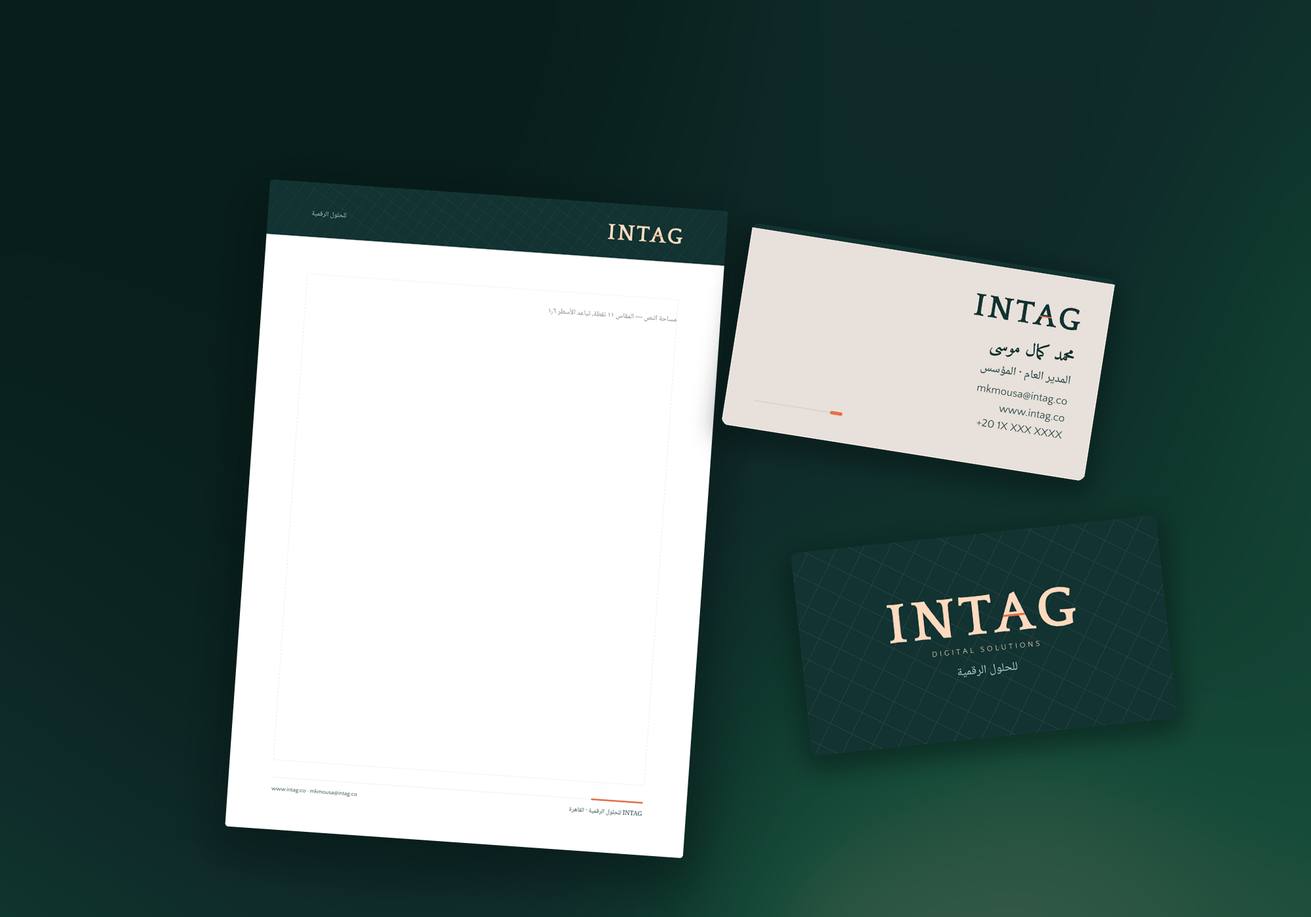
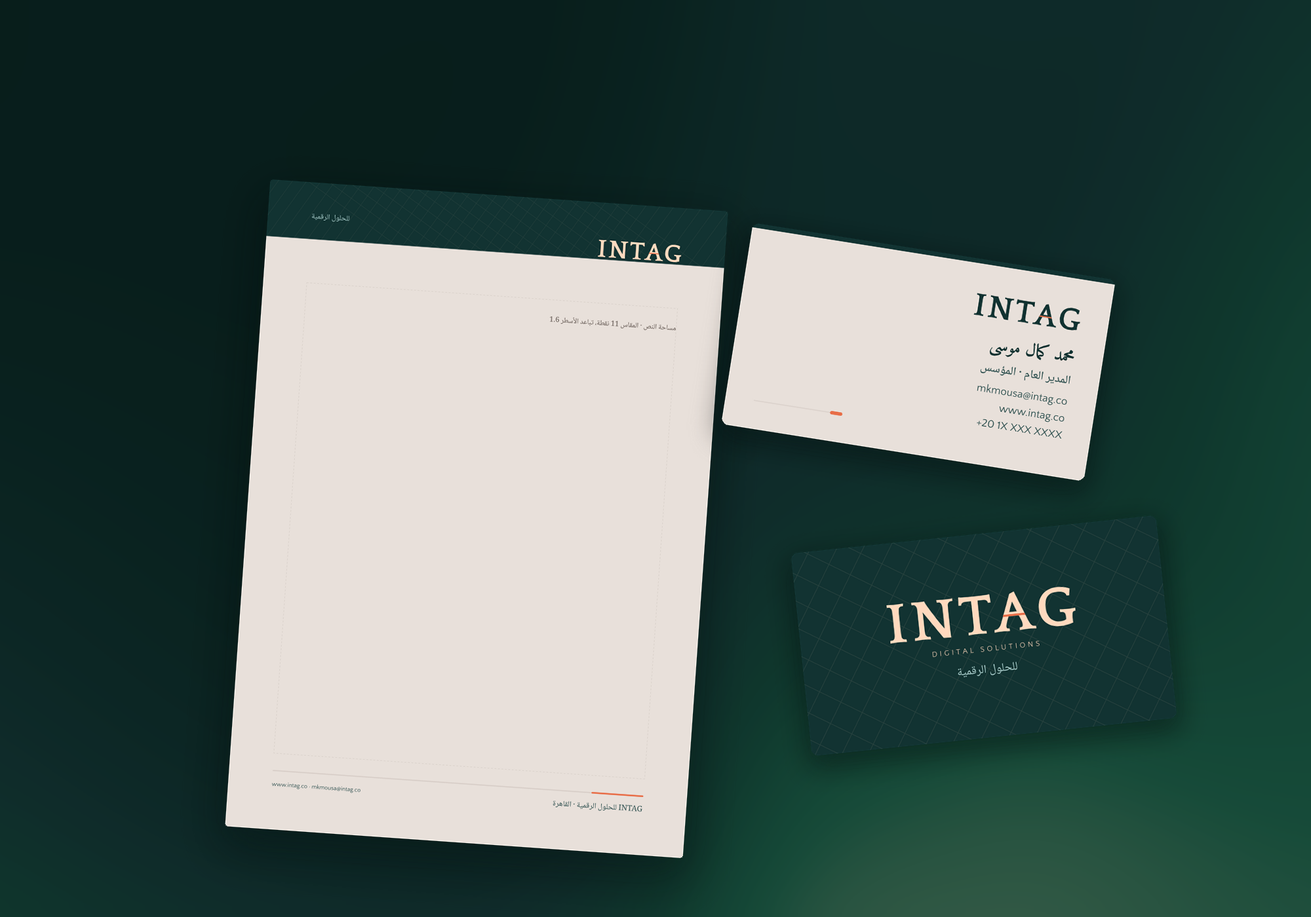
Darker paper, and the two A4 documents become a set
The light surface moves from near-white to sand.100 (#E8E0DA). That costs about
1.2 stops of contrast, so the inks that sit on the paper step down one: the
accent and the warning would otherwise fall under 4.5:1. Page, raised and sunken
re-layer as sand.100 / sand.50 / sand.200.

The letterhead and the proposal cover now share one A4 spec - margin, logo size,
logo baseline and footer band - so they line up when laid together. The cover
also draws its project title, which it had been building and discarding.

Changed region(s): [[0.155, 0.2457, 0.558, 0.9521]]

diff --git a/brandbook/index.html b/brandbook/index.html
@@ -211,7 +211,7 @@
 
   <h3 style="margin-top:52px">نسبة التغطية 60 · 30 · 10</h3>
   <div class="grid g3">
-    <div class="card"><div class="pt"></div><h4>60% · الأرضية</h4><p><span class="lat">forest.900</span> في الوضع الداكن، <span class="lat">sand.50</span> في الفاتح. السطح، لا لون العلامة.</p></div>
+    <div class="card"><div class="pt"></div><h4>60% · الأرضية</h4><p><span class="lat">forest.900</span> في الوضع الداكن، <span class="lat">sand.100</span> في الفاتح. السطح، لا لون العلامة.</p></div>
     <div class="card"><div class="pt"></div><h4>30% · البنية</h4><p>البطاقات والحدود والنص الثانوي: <span class="lat">forest.850/750</span> أو <span class="lat">sand.100/200</span>.</p></div>
     <div class="card"><div class="pt"></div><h4>10% · اللهجة</h4><p>المشمشي للعناوين، والفخّار للفعل الواحد. رأيت الفخّار مرتين في شاشة واحدة، فالنسبة خاطئة.</p></div>
   </div>
@@ -219,13 +219,13 @@
   <h3 style="margin-top:52px">التباين</h3>
   <p>كل زوج محسوب بمعيارين: نسبة <span class="lat">WCAG 2.1</span>، وقيمة <span class="lat">APCA Lc</span> الإدراكية. الأخيرة اتجاهية: الفاتح على الداكن سالب.</p>
   <div class="scroll"><table><thead><tr><th>الاستخدام</th><th>أمامي</th><th>خلفي</th><th class="num">WCAG</th><th class="num">APCA</th><th>الحكم</th></tr></thead><tbody>
-<tr><td>عنوان مشمشي على الأرضية</td><td class="num">apricot.200</td><td class="num">forest.900</td><td class="num">10.3</td><td class="num">-83.2</td><td><span class="tag ok">نص عادي</span></td></tr><tr><td>نص جارٍ كريمي على الأرضية</td><td class="num">sand.100</td><td class="num">forest.900</td><td class="num">10.42</td><td class="num">-83.9</td><td><span class="tag ok">نص عادي</span></td></tr><tr><td>نص أبيض دافئ على الأرضية</td><td class="num">sand.50</td><td class="num">forest.900</td><td class="num">12.51</td><td class="num">-96.8</td><td><span class="tag ok">نص عادي</span></td></tr><tr><td>عنوان على بطاقة</td><td class="num">apricot.200</td><td class="num">forest.850</td><td class="num">8.34</td><td class="num">-79.3</td><td><span class="tag ok">نص عادي</span></td></tr><tr><td>نص على بطاقة</td><td class="num">sand.100</td><td class="num">forest.850</td><td class="num">8.44</td><td class="num">-80</td><td><span class="tag ok">نص عادي</span></td></tr><tr><td>نص على سطح مرتفع</td><td class="num">sand.100</td><td class="num">forest.750</td><td class="num">6.56</td><td class="num">-74.7</td><td><span class="tag ok">نص عادي</span></td></tr><tr><td>لهجة نصية دافئة على الأرضية</td><td class="num">terracotta.350</td><td class="num">forest.900</td><td class="num">6.31</td><td class="num">-55.3</td><td><span class="tag ok">نص عادي</span></td></tr><tr><td>فخّار كامل على الأرضية</td><td class="num">terracotta.500</td><td class="num">forest.900</td><td class="num">4.43</td><td class="num">-40</td><td><span class="tag warn">عناوين فقط</span></td></tr><tr><td>نخيل فاتح على الأرضية</td><td class="num">palm.400</td><td class="num">forest.900</td><td class="num">6.15</td><td class="num">-54</td><td><span class="tag ok">نص عادي</span></td></tr><tr><td>حَرَج على الورق</td><td class="num">forest.900</td><td class="num">sand.50</td><td class="num">12.51</td><td class="num">94.3</td><td><span class="tag ok">نص عادي</span></td></tr><tr><td>نص ثانوي على الورق</td><td class="num">forest.750</td><td class="num">sand.50</td><td class="num">7.87</td><td class="num">83.6</td><td><span class="tag ok">نص عادي</span></td></tr><tr><td>فخّار غامق على الورق</td><td class="num">terracotta.600</td><td class="num">sand.50</td><td class="num">4.6</td><td class="num">68.1</td><td><span class="tag ok">نص عادي</span></td></tr><tr><td>فخّار كامل على الورق</td><td class="num">terracotta.500</td><td class="num">sand.50</td><td class="num">2.82</td><td class="num">51.3</td><td><span class="tag no">ممنوع</span></td></tr><tr><td>شارة: طين على مشمشي</td><td class="num">terracotta.800</td><td class="num">apricot.200</td><td class="num">8.02</td><td class="num">75.6</td><td><span class="tag ok">نص عادي</span></td></tr>
+<tr><td>عنوان مشمشي على الأرضية</td><td class="num">apricot.200</td><td class="num">forest.900</td><td class="num">10.3</td><td class="num">-83.2</td><td><span class="tag ok">نص عادي</span></td></tr><tr><td>نص جارٍ كريمي على الأرضية</td><td class="num">sand.100</td><td class="num">forest.900</td><td class="num">10.42</td><td class="num">-83.9</td><td><span class="tag ok">نص عادي</span></td></tr><tr><td>نص أبيض دافئ على الأرضية</td><td class="num">sand.50</td><td class="num">forest.900</td><td class="num">12.51</td><td class="num">-96.8</td><td><span class="tag ok">نص عادي</span></td></tr><tr><td>عنوان على بطاقة</td><td class="num">apricot.200</td><td class="num">forest.850</td><td class="num">8.34</td><td class="num">-79.3</td><td><span class="tag ok">نص عادي</span></td></tr><tr><td>نص على بطاقة</td><td class="num">sand.100</td><td class="num">forest.850</td><td class="num">8.44</td><td class="num">-80</td><td><span class="tag ok">نص عادي</span></td></tr><tr><td>نص على سطح مرتفع</td><td class="num">sand.100</td><td class="num">forest.750</td><td class="num">6.56</td><td class="num">-74.7</td><td><span class="tag ok">نص عادي</span></td></tr><tr><td>لهجة نصية دافئة على الأرضية</td><td class="num">terracotta.350</td><td class="num">forest.900</td><td class="num">6.31</td><td class="num">-55.3</td><td><span class="tag ok">نص عادي</span></td></tr><tr><td>فخّار كامل على الأرضية</td><td class="num">terracotta.500</td><td class="num">forest.900</td><td class="num">4.43</td><td class="num">-40</td><td><span class="tag warn">عناوين فقط</span></td></tr><tr><td>نخيل فاتح على الأرضية</td><td class="num">palm.400</td><td class="num">forest.900</td><td class="num">6.15</td><td class="num">-54</td><td><span class="tag ok">نص عادي</span></td></tr><tr><td>حَرَج على الورق</td><td class="num">forest.900</td><td class="num">sand.100</td><td class="num">10.42</td><td class="num">82.5</td><td><span class="tag ok">نص عادي</span></td></tr><tr><td>نص ثانوي على الورق</td><td class="num">sand.700</td><td class="num">sand.100</td><td class="num">5.28</td><td class="num">66.4</td><td><span class="tag ok">نص عادي</span></td></tr><tr><td>فخّار غامق على الورق</td><td class="num">terracotta.700</td><td class="num">sand.100</td><td class="num">5.57</td><td class="num">66.9</td><td><span class="tag ok">نص عادي</span></td></tr><tr><td>فخّار كامل على الورق</td><td class="num">terracotta.600</td><td class="num">sand.100</td><td class="num">3.83</td><td class="num">56.3</td><td><span class="tag warn">عناوين فقط</span></td></tr><tr><td>شارة: طين على مشمشي</td><td class="num">terracotta.800</td><td class="num">apricot.200</td><td class="num">8.02</td><td class="num">75.6</td><td><span class="tag ok">نص عادي</span></td></tr>
   </tbody></table></div>
   <div class="grid g2" style="margin-top:24px">
     <div class="do"><h4 style="margin-bottom:10px">مسموح</h4>
-      <p style="font-size:16px">المشمشي والكريمي والأبيض الدافئ كنصوص جارية على درجات الحَرَج 750 فأغمق. الفخّار 600 فأغمق كنصّ على الورق.</p></div>
+      <p style="font-size:16px">المشمشي والكريمي والأبيض الدافئ كنصوص جارية على درجات الحَرَج 750 فأغمق. الفخّار 700 فأغمق كنصّ على الورق.</p></div>
     <div class="dont"><h4 style="margin-bottom:10px">ممنوع</h4>
-      <p style="font-size:16px"><span class="lat">terracotta.500</span> كنصّ جارٍ على الورق: 2.82، ساقط. <span class="lat">terracotta.500</span> و<span class="lat">palm.500</span> على الأرضية: للعناوين والعناصر الكبيرة فقط.</p></div>
+      <p style="font-size:16px"><span class="lat">terracotta.500</span> و<span class="lat">terracotta.600</span> كنصّ جارٍ على الورق: تحت 4.5. <span class="lat">terracotta.500</span> و<span class="lat">palm.500</span> على الأرضية: للعناوين والعناصر الكبيرة فقط.</p></div>
   </div>
 
   <h3 style="margin-top:52px">عمى الألوان</h3>
@@ -236,7 +236,7 @@
   <p>المكوّنات تستهلك هذه الأسماء، لا القيم الأولية. مكوّن موصول مباشرةً بـ<span class="lat">forest.900</span> هو مصدر حقيقة ثانٍ خفيّ، ولن يتبع أي تحديث للعلامة.</p>
   <div class="grid g2">
     <div><h4 style="margin-bottom:10px">الوضع الداكن · الأصل</h4><div class="scroll"><table><thead><tr><th>الاسم الدلالي</th><th>يشير إلى</th><th>القيمة</th></tr></thead><tbody><tr><td class="num">surface.page</td><td class="num">forest.900</td><td><span style="display:inline-block;width:26px;height:16px;border-radius:4px;background:#123332;box-shadow:inset 0 0 0 1px rgba(0,0,0,.15)"></span> <span class="num">#123332</span></td></tr><tr><td class="num">surface.raised</td><td class="num">forest.850</td><td><span style="display:inline-block;width:26px;height:16px;border-radius:4px;background:#1D4241;box-shadow:inset 0 0 0 1px rgba(0,0,0,.15)"></span> <span class="num">#1D4241</span></td></tr><tr><td class="num">surface.sunken</td><td class="num">forest.950</td><td><span style="display:inline-block;width:26px;height:16px;border-radius:4px;background:#061B1A;box-shadow:inset 0 0 0 1px rgba(0,0,0,.15)"></span> <span class="num">#061B1A</span></td></tr><tr><td class="num">surface.inverse</td><td class="num">sand.50</td><td><span style="display:inline-block;width:26px;height:16px;border-radius:4px;background:#F8F5F2;box-shadow:inset 0 0 0 1px rgba(0,0,0,.15)"></span> <span class="num">#F8F5F2</span></td></tr><tr><td class="num">surface.accent</td><td class="num">terracotta.800</td><td><span style="display:inline-block;width:26px;height:16px;border-radius:4px;background:#71260E;box-shadow:inset 0 0 0 1px rgba(0,0,0,.15)"></span> <span class="num">#71260E</span></td></tr><tr><td class="num">text.primary</td><td class="num">sand.100</td><td><span style="display:inline-block;width:26px;height:16px;border-radius:4px;background:#E8E0DA;box-shadow:inset 0 0 0 1px rgba(0,0,0,.15)"></span> <span class="num">#E8E0DA</span></td></tr><tr><td class="num">text.secondary</td><td class="num">forest.300</td><td><span style="display:inline-block;width:26px;height:16px;border-radius:4px;background:#A9CDCB;box-shadow:inset 0 0 0 1px rgba(0,0,0,.15)"></span> <span class="num">#A9CDCB</span></td></tr><tr><td class="num">text.muted</td><td class="num">forest.400</td><td><span style="display:inline-block;width:26px;height:16px;border-radius:4px;background:#88B5B3;box-shadow:inset 0 0 0 1px rgba(0,0,0,.15)"></span> <span class="num">#88B5B3</span></td></tr><tr><td class="num">text.inverse</td><td class="num">forest.900</td><td><span style="display:inline-block;width:26px;height:16px;border-radius:4px;background:#123332;box-shadow:inset 0 0 0 1px rgba(0,0,0,.15)"></span> <span class="num">#123332</span></td></tr><tr><td class="num">text.accent</td><td class="num">terracotta.350</td><td><span style="display:inline-block;width:26px;height:16px;border-radius:4px;background:#EF9C82;box-shadow:inset 0 0 0 1px rgba(0,0,0,.15)"></span> <span class="num">#EF9C82</span></td></tr><tr><td class="num">text.onAccent</td><td class="num">apricot.200</td><td><span style="display:inline-block;width:26px;height:16px;border-radius:4px;background:#FFD9BE;box-shadow:inset 0 0 0 1px rgba(0,0,0,.15)"></span> <span class="num">#FFD9BE</span></td></tr><tr><td class="num">border.subtle</td><td class="num">forest.750</td><td><span style="display:inline-block;width:26px;height:16px;border-radius:4px;background:#315251;box-shadow:inset 0 0 0 1px rgba(0,0,0,.15)"></span> <span class="num">#315251</span></td></tr><tr><td class="num">border.strong</td><td class="num">forest.600</td><td><span style="display:inline-block;width:26px;height:16px;border-radius:4px;background:#407371;box-shadow:inset 0 0 0 1px rgba(0,0,0,.15)"></span> <span class="num">#407371</span></td></tr><tr><td class="num">border.accent</td><td class="num">terracotta.500</td><td><span style="display:inline-block;width:26px;height:16px;border-radius:4px;background:#E8704A;box-shadow:inset 0 0 0 1px rgba(0,0,0,.15)"></span> <span class="num">#E8704A</span></td></tr><tr><td class="num">action.primary.bg</td><td class="num">apricot.200</td><td><span style="display:inline-block;width:26px;height:16px;border-radius:4px;background:#FFD9BE;box-shadow:inset 0 0 0 1px rgba(0,0,0,.15)"></span> <span class="num">#FFD9BE</span></td></tr><tr><td class="num">action.primary.text</td><td class="num">forest.900</td><td><span style="display:inline-block;width:26px;height:16px;border-radius:4px;background:#123332;box-shadow:inset 0 0 0 1px rgba(0,0,0,.15)"></span> <span class="num">#123332</span></td></tr><tr><td class="num">action.secondary.bg</td><td class="num">forest.750</td><td><span style="display:inline-block;width:26px;height:16px;border-radius:4px;background:#315251;box-shadow:inset 0 0 0 1px rgba(0,0,0,.15)"></span> <span class="num">#315251</span></td></tr><tr><td class="num">action.secondary.text</td><td class="num">apricot.200</td><td><span style="display:inline-block;width:26px;height:16px;border-radius:4px;background:#FFD9BE;box-shadow:inset 0 0 0 1px rgba(0,0,0,.15)"></span> <span class="num">#FFD9BE</span></td></tr><tr><td class="num">action.ghost.text</td><td class="num">terracotta.350</td><td><span style="display:inline-block;width:26px;height:16px;border-radius:4px;background:#EF9C82;box-shadow:inset 0 0 0 1px rgba(0,0,0,.15)"></span> <span class="num">#EF9C82</span></td></tr><tr><td class="num">status.success</td><td class="num">palm.300</td><td><span style="display:inline-block;width:26px;height:16px;border-radius:4px;background:#95D6AF;box-shadow:inset 0 0 0 1px rgba(0,0,0,.15)"></span> <span class="num">#95D6AF</span></td></tr><tr><td class="num">status.warning</td><td class="num">warning.300</td><td><span style="display:inline-block;width:26px;height:16px;border-radius:4px;background:#F1B972;box-shadow:inset 0 0 0 1px rgba(0,0,0,.15)"></span> <span class="num">#F1B972</span></td></tr><tr><td class="num">status.error</td><td class="num">error.300</td><td><span style="display:inline-block;width:26px;height:16px;border-radius:4px;background:#FFA59E;box-shadow:inset 0 0 0 1px rgba(0,0,0,.15)"></span> <span class="num">#FFA59E</span></td></tr><tr><td class="num">status.info</td><td class="num">info.300</td><td><span style="display:inline-block;width:26px;height:16px;border-radius:4px;background:#A2CDDB;box-shadow:inset 0 0 0 1px rgba(0,0,0,.15)"></span> <span class="num">#A2CDDB</span></td></tr></tbody></table></div></div>
-    <div><h4 style="margin-bottom:10px">الوضع الفاتح · وضع الوثائق</h4><div class="scroll"><table><thead><tr><th>الاسم الدلالي</th><th>يشير إلى</th><th>القيمة</th></tr></thead><tbody><tr><td class="num">surface.page</td><td class="num">sand.50</td><td><span style="display:inline-block;width:26px;height:16px;border-radius:4px;background:#F8F5F2;box-shadow:inset 0 0 0 1px rgba(0,0,0,.15)"></span> <span class="num">#F8F5F2</span></td></tr><tr><td class="num">surface.raised</td><td class="num">white</td><td><span style="display:inline-block;width:26px;height:16px;border-radius:4px;background:#FFFFFF;box-shadow:inset 0 0 0 1px rgba(0,0,0,.15)"></span> <span class="num">#FFFFFF</span></td></tr><tr><td class="num">surface.sunken</td><td class="num">sand.100</td><td><span style="display:inline-block;width:26px;height:16px;border-radius:4px;background:#E8E0DA;box-shadow:inset 0 0 0 1px rgba(0,0,0,.15)"></span> <span class="num">#E8E0DA</span></td></tr><tr><td class="num">surface.inverse</td><td class="num">forest.900</td><td><span style="display:inline-block;width:26px;height:16px;border-radius:4px;background:#123332;box-shadow:inset 0 0 0 1px rgba(0,0,0,.15)"></span> <span class="num">#123332</span></td></tr><tr><td class="num">surface.accent</td><td class="num">apricot.200</td><td><span style="display:inline-block;width:26px;height:16px;border-radius:4px;background:#FFD9BE;box-shadow:inset 0 0 0 1px rgba(0,0,0,.15)"></span> <span class="num">#FFD9BE</span></td></tr><tr><td class="num">text.primary</td><td class="num">forest.900</td><td><span style="display:inline-block;width:26px;height:16px;border-radius:4px;background:#123332;box-shadow:inset 0 0 0 1px rgba(0,0,0,.15)"></span> <span class="num">#123332</span></td></tr><tr><td class="num">text.secondary</td><td class="num">forest.750</td><td><span style="display:inline-block;width:26px;height:16px;border-radius:4px;background:#315251;box-shadow:inset 0 0 0 1px rgba(0,0,0,.15)"></span> <span class="num">#315251</span></td></tr><tr><td class="num">text.muted</td><td class="num">sand.700</td><td><span style="display:inline-block;width:26px;height:16px;border-radius:4px;background:#635852;box-shadow:inset 0 0 0 1px rgba(0,0,0,.15)"></span> <span class="num">#635852</span></td></tr><tr><td class="num">text.inverse</td><td class="num">apricot.200</td><td><span style="display:inline-block;width:26px;height:16px;border-radius:4px;background:#FFD9BE;box-shadow:inset 0 0 0 1px rgba(0,0,0,.15)"></span> <span class="num">#FFD9BE</span></td></tr><tr><td class="num">text.accent</td><td class="num">terracotta.600</td><td><span style="display:inline-block;width:26px;height:16px;border-radius:4px;background:#BC4C27;box-shadow:inset 0 0 0 1px rgba(0,0,0,.15)"></span> <span class="num">#BC4C27</span></td></tr><tr><td class="num">text.onAccent</td><td class="num">forest.900</td><td><span style="display:inline-block;width:26px;height:16px;border-radius:4px;background:#123332;box-shadow:inset 0 0 0 1px rgba(0,0,0,.15)"></span> <span class="num">#123332</span></td></tr><tr><td class="num">border.subtle</td><td class="num">sand.200</td><td><span style="display:inline-block;width:26px;height:16px;border-radius:4px;background:#DFD7D3;box-shadow:inset 0 0 0 1px rgba(0,0,0,.15)"></span> <span class="num">#DFD7D3</span></td></tr><tr><td class="num">border.strong</td><td class="num">forest.750</td><td><span style="display:inline-block;width:26px;height:16px;border-radius:4px;background:#315251;box-shadow:inset 0 0 0 1px rgba(0,0,0,.15)"></span> <span class="num">#315251</span></td></tr><tr><td class="num">border.accent</td><td class="num">terracotta.600</td><td><span style="display:inline-block;width:26px;height:16px;border-radius:4px;background:#BC4C27;box-shadow:inset 0 0 0 1px rgba(0,0,0,.15)"></span> <span class="num">#BC4C27</span></td></tr><tr><td class="num">action.primary.bg</td><td class="num">forest.900</td><td><span style="display:inline-block;width:26px;height:16px;border-radius:4px;background:#123332;box-shadow:inset 0 0 0 1px rgba(0,0,0,.15)"></span> <span class="num">#123332</span></td></tr><tr><td class="num">action.primary.text</td><td class="num">apricot.200</td><td><span style="display:inline-block;width:26px;height:16px;border-radius:4px;background:#FFD9BE;box-shadow:inset 0 0 0 1px rgba(0,0,0,.15)"></span> <span class="num">#FFD9BE</span></td></tr><tr><td class="num">action.secondary.bg</td><td class="num">apricot.200</td><td><span style="display:inline-block;width:26px;height:16px;border-radius:4px;background:#FFD9BE;box-shadow:inset 0 0 0 1px rgba(0,0,0,.15)"></span> <span class="num">#FFD9BE</span></td></tr><tr><td class="num">action.secondary.text</td><td class="num">forest.900</td><td><span style="display:inline-block;width:26px;height:16px;border-radius:4px;background:#123332;box-shadow:inset 0 0 0 1px rgba(0,0,0,.15)"></span> <span class="num">#123332</span></td></tr><tr><td class="num">action.ghost.text</td><td class="num">terracotta.600</td><td><span style="display:inline-block;width:26px;height:16px;border-radius:4px;background:#BC4C27;box-shadow:inset 0 0 0 1px rgba(0,0,0,.15)"></span> <span class="num">#BC4C27</span></td></tr><tr><td class="num">status.success</td><td class="num">palm.700</td><td><span style="display:inline-block;width:26px;height:16px;border-radius:4px;background:#066C42;box-shadow:inset 0 0 0 1px rgba(0,0,0,.15)"></span> <span class="num">#066C42</span></td></tr><tr><td class="num">status.warning</td><td class="num">warning.600</td><td><span style="display:inline-block;width:26px;height:16px;border-radius:4px;background:#A66300;box-shadow:inset 0 0 0 1px rgba(0,0,0,.15)"></span> <span class="num">#A66300</span></td></tr><tr><td class="num">status.error</td><td class="num">error.700</td><td><span style="display:inline-block;width:26px;height:16px;border-radius:4px;background:#9E2C2D;box-shadow:inset 0 0 0 1px rgba(0,0,0,.15)"></span> <span class="num">#9E2C2D</span></td></tr><tr><td class="num">status.info</td><td class="num">info.700</td><td><span style="display:inline-block;width:26px;height:16px;border-radius:4px;background:#2D6373;box-shadow:inset 0 0 0 1px rgba(0,0,0,.15)"></span> <span class="num">#2D6373</span></td></tr></tbody></table></div></div>
+    <div><h4 style="margin-bottom:10px">الوضع الفاتح · وضع الوثائق</h4><div class="scroll"><table><thead><tr><th>الاسم الدلالي</th><th>يشير إلى</th><th>القيمة</th></tr></thead><tbody><tr><td class="num">surface.page</td><td class="num">sand.100</td><td><span style="display:inline-block;width:26px;height:16px;border-radius:4px;background:#E8E0DA;box-shadow:inset 0 0 0 1px rgba(0,0,0,.15)"></span> <span class="num">#E8E0DA</span></td></tr><tr><td class="num">surface.raised</td><td class="num">sand.50</td><td><span style="display:inline-block;width:26px;height:16px;border-radius:4px;background:#F8F5F2;box-shadow:inset 0 0 0 1px rgba(0,0,0,.15)"></span> <span class="num">#F8F5F2</span></td></tr><tr><td class="num">surface.sunken</td><td class="num">sand.200</td><td><span style="display:inline-block;width:26px;height:16px;border-radius:4px;background:#DFD7D3;box-shadow:inset 0 0 0 1px rgba(0,0,0,.15)"></span> <span class="num">#DFD7D3</span></td></tr><tr><td class="num">surface.inverse</td><td class="num">forest.900</td><td><span style="display:inline-block;width:26px;height:16px;border-radius:4px;background:#123332;box-shadow:inset 0 0 0 1px rgba(0,0,0,.15)"></span> <span class="num">#123332</span></td></tr><tr><td class="num">surface.accent</td><td class="num">apricot.200</td><td><span style="display:inline-block;width:26px;height:16px;border-radius:4px;background:#FFD9BE;box-shadow:inset 0 0 0 1px rgba(0,0,0,.15)"></span> <span class="num">#FFD9BE</span></td></tr><tr><td class="num">text.primary</td><td class="num">forest.900</td><td><span style="display:inline-block;width:26px;height:16px;border-radius:4px;background:#123332;box-shadow:inset 0 0 0 1px rgba(0,0,0,.15)"></span> <span class="num">#123332</span></td></tr><tr><td class="num">text.secondary</td><td class="num">forest.750</td><td><span style="display:inline-block;width:26px;height:16px;border-radius:4px;background:#315251;box-shadow:inset 0 0 0 1px rgba(0,0,0,.15)"></span> <span class="num">#315251</span></td></tr><tr><td class="num">text.muted</td><td class="num">sand.700</td><td><span style="display:inline-block;width:26px;height:16px;border-radius:4px;background:#635852;box-shadow:inset 0 0 0 1px rgba(0,0,0,.15)"></span> <span class="num">#635852</span></td></tr><tr><td class="num">text.inverse</td><td class="num">apricot.200</td><td><span style="display:inline-block;width:26px;height:16px;border-radius:4px;background:#FFD9BE;box-shadow:inset 0 0 0 1px rgba(0,0,0,.15)"></span> <span class="num">#FFD9BE</span></td></tr><tr><td class="num">text.accent</td><td class="num">terracotta.700</td><td><span style="display:inline-block;width:26px;height:16px;border-radius:4px;background:#973817;box-shadow:inset 0 0 0 1px rgba(0,0,0,.15)"></span> <span class="num">#973817</span></td></tr><tr><td class="num">text.onAccent</td><td class="num">forest.900</td><td><span style="display:inline-block;width:26px;height:16px;border-radius:4px;background:#123332;box-shadow:inset 0 0 0 1px rgba(0,0,0,.15)"></span> <span class="num">#123332</span></td></tr><tr><td class="num">border.subtle</td><td class="num">sand.300</td><td><span style="display:inline-block;width:26px;height:16px;border-radius:4px;background:#CCC3BD;box-shadow:inset 0 0 0 1px rgba(0,0,0,.15)"></span> <span class="num">#CCC3BD</span></td></tr><tr><td class="num">border.strong</td><td class="num">forest.750</td><td><span style="display:inline-block;width:26px;height:16px;border-radius:4px;background:#315251;box-shadow:inset 0 0 0 1px rgba(0,0,0,.15)"></span> <span class="num">#315251</span></td></tr><tr><td class="num">border.accent</td><td class="num">terracotta.700</td><td><span style="display:inline-block;width:26px;height:16px;border-radius:4px;background:#973817;box-shadow:inset 0 0 0 1px rgba(0,0,0,.15)"></span> <span class="num">#973817</span></td></tr><tr><td class="num">action.primary.bg</td><td class="num">forest.900</td><td><span style="display:inline-block;width:26px;height:16px;border-radius:4px;background:#123332;box-shadow:inset 0 0 0 1px rgba(0,0,0,.15)"></span> <span class="num">#123332</span></td></tr><tr><td class="num">action.primary.text</td><td class="num">apricot.200</td><td><span style="display:inline-block;width:26px;height:16px;border-radius:4px;background:#FFD9BE;box-shadow:inset 0 0 0 1px rgba(0,0,0,.15)"></span> <span class="num">#FFD9BE</span></td></tr><tr><td class="num">action.secondary.bg</td><td class="num">apricot.200</td><td><span style="display:inline-block;width:26px;height:16px;border-radius:4px;background:#FFD9BE;box-shadow:inset 0 0 0 1px rgba(0,0,0,.15)"></span> <span class="num">#FFD9BE</span></td></tr><tr><td class="num">action.secondary.text</td><td class="num">forest.900</td><td><span style="display:inline-block;width:26px;height:16px;border-radius:4px;background:#123332;box-shadow:inset 0 0 0 1px rgba(0,0,0,.15)"></span> <span class="num">#123332</span></td></tr><tr><td class="num">action.ghost.text</td><td class="num">terracotta.700</td><td><span style="display:inline-block;width:26px;height:16px;border-radius:4px;background:#973817;box-shadow:inset 0 0 0 1px rgba(0,0,0,.15)"></span> <span class="num">#973817</span></td></tr><tr><td class="num">status.success</td><td class="num">palm.700</td><td><span style="display:inline-block;width:26px;height:16px;border-radius:4px;background:#066C42;box-shadow:inset 0 0 0 1px rgba(0,0,0,.15)"></span> <span class="num">#066C42</span></td></tr><tr><td class="num">status.warning</td><td class="num">warning.700</td><td><span style="display:inline-block;width:26px;height:16px;border-radius:4px;background:#834C00;box-shadow:inset 0 0 0 1px rgba(0,0,0,.15)"></span> <span class="num">#834C00</span></td></tr><tr><td class="num">status.error</td><td class="num">error.700</td><td><span style="display:inline-block;width:26px;height:16px;border-radius:4px;background:#9E2C2D;box-shadow:inset 0 0 0 1px rgba(0,0,0,.15)"></span> <span class="num">#9E2C2D</span></td></tr><tr><td class="num">status.info</td><td class="num">info.700</td><td><span style="display:inline-block;width:26px;height:16px;border-radius:4px;background:#2D6373;box-shadow:inset 0 0 0 1px rgba(0,0,0,.15)"></span> <span class="num">#2D6373</span></td></tr></tbody></table></div></div>
   </div>
 
   <h3 style="margin-top:52px">الطباعة الورقية</h3>

diff --git a/assets/tokens/intag-tokens.css b/assets/tokens/intag-tokens.css
@@ -40,6 +40,7 @@
   --intag-warning-300: #F1B972;
   --intag-warning-500: #C77A00;
   --intag-warning-600: #A66300;
+  --intag-warning-700: #834C00;
   --intag-error-300: #FFA59E;
   --intag-error-600: #CB4644;
   --intag-error-700: #9E2C2D;
@@ -49,27 +50,27 @@
   --intag-white: #FFFFFF;
   --intag-black: #000000;
 
-  --intag-color-surface-page: var(--intag-sand-50);
-  --intag-color-surface-raised: var(--intag-white);
-  --intag-color-surface-sunken: var(--intag-sand-100);
+  --intag-color-surface-page: var(--intag-sand-100);
+  --intag-color-surface-raised: var(--intag-sand-50);
+  --intag-color-surface-sunken: var(--intag-sand-200);
   --intag-color-surface-inverse: var(--intag-forest-900);
   --intag-color-surface-accent: var(--intag-apricot-200);
   --intag-color-text-primary: var(--intag-forest-900);
   --intag-color-text-secondary: var(--intag-forest-750);
   --intag-color-text-muted: var(--intag-sand-700);
   --intag-color-text-inverse: var(--intag-apricot-200);
-  --intag-color-text-accent: var(--intag-terracotta-600);
+  --intag-color-text-accent: var(--intag-terracotta-700);
   --intag-color-text-onAccent: var(--intag-forest-900);
-  --intag-color-border-subtle: var(--intag-sand-200);
+  --intag-color-border-subtle: var(--intag-sand-300);
   --intag-color-border-strong: var(--intag-forest-750);
-  --intag-color-border-accent: var(--intag-terracotta-600);
+  --intag-color-border-accent: var(--intag-terracotta-700);
   --intag-color-action-primary-bg: var(--intag-forest-900);
   --intag-color-action-primary-text: var(--intag-apricot-200);
   --intag-color-action-secondary-bg: var(--intag-apricot-200);
   --intag-color-action-secondary-text: var(--intag-forest-900);
-  --intag-color-action-ghost-text: var(--intag-terracotta-600);
+  --intag-color-action-ghost-text: var(--intag-terracotta-700);
   --intag-color-status-success: var(--intag-palm-700);
-  --intag-color-status-warning: var(--intag-warning-600);
+  --intag-color-status-warning: var(--intag-warning-700);
   --intag-color-status-error: var(--intag-error-700);
   --intag-color-status-info: var(--intag-info-700);
 

diff --git a/assets/tokens/_intag-tokens.scss b/assets/tokens/_intag-tokens.scss
@@ -38,6 +38,7 @@ $intag-sand-900: #322B27;
 $intag-warning-300: #F1B972;
 $intag-warning-500: #C77A00;
 $intag-warning-600: #A66300;
+$intag-warning-700: #834C00;
 $intag-error-300: #FFA59E;
 $intag-error-600: #CB4644;
 $intag-error-700: #9E2C2D;
@@ -46,26 +47,26 @@ $intag-info-600: #4C8A9D;
 $intag-info-700: #2D6373;
 $intag-white: #FFFFFF;
 $intag-black: #000000;
-$intag-color-surface-page: $intag-sand-50;
-$intag-color-surface-raised: $intag-white;
-$intag-color-surface-sunken: $intag-sand-100;
+$intag-color-surface-page: $intag-sand-100;
+$intag-color-surface-raised: $intag-sand-50;
+$intag-color-surface-sunken: $intag-sand-200;
 $intag-color-surface-inverse: $intag-forest-900;
 $intag-color-surface-accent: $intag-apricot-200;
 $intag-color-text-primary: $intag-forest-900;
 $intag-color-text-secondary: $intag-forest-750;
 $intag-color-text-muted: $intag-sand-700;
 $intag-color-text-inverse: $intag-apricot-200;
-$intag-color-text-accent: $intag-terracotta-600;
+$intag-color-text-accent: $intag-terracotta-700;
 $intag-color-text-onAccent: $intag-forest-900;
-$intag-color-border-subtle: $intag-sand-200;
+$intag-color-border-subtle: $intag-sand-300;
 $intag-color-border-strong: $intag-forest-750;
-$intag-color-border-accent: $intag-terracotta-600;
+$intag-color-border-accent: $intag-terracotta-700;
 $intag-color-action-primary-bg: $intag-forest-900;
 $intag-color-action-primary-text: $intag-apricot-200;
 $intag-color-action-secondary-bg: $intag-apricot-200;
 $intag-color-action-secondary-text: $intag-forest-900;
-$intag-color-action-ghost-text: $intag-terracotta-600;
+$intag-color-action-ghost-text: $intag-terracotta-700;
 $intag-color-status-success: $intag-palm-700;
-$intag-color-status-warning: $intag-warning-600;
+$intag-color-status-warning: $intag-warning-700;
 $intag-color-status-error: $intag-error-700;
 $intag-color-status-info: $intag-info-700;
